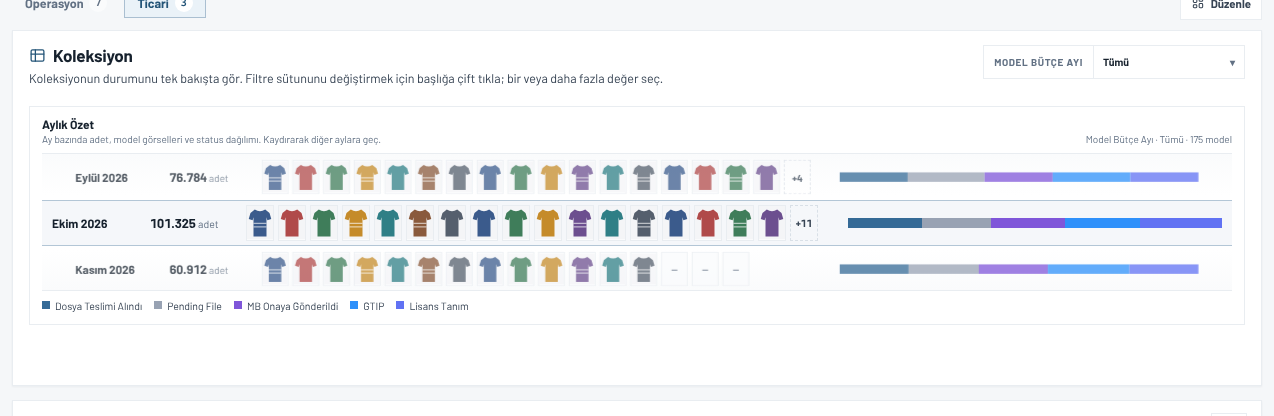
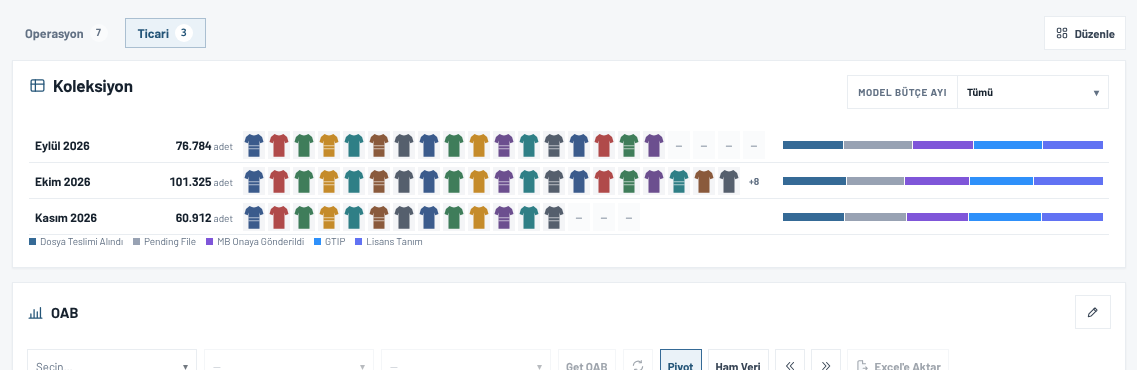
Overview Koleksiyon: düz ve kompakt aylık liste, hover detayı
- Tambur görünümü kaldırıldı; 3 ay aynı hizada, kaydırma/snap sürüyor
- Status dilimine gelince model sayısı ve adet kartı (monthBuckets
  status başına adet de döner); ay adı Koleksiyon'u o ayla açar
- Açıklama, 'Aylık Özet' başlığı ve kapsam metni kaldırıldı
- Daha sıkı satırlar; @container ile dar widget'ta sütunlar küçülür,
  görsel sayısı genişliğe göre azalır; varsayılan widget yüksekliği 3
- Sürüm notu ve görseli güncellendi

Claude-Session: https://claude.ai/code/session_01CpVbLM8pvyK8wbHhbVVCoa

diff --git a/resources/app/public/overview-collection-dashboard.js b/resources/app/public/overview-collection-dashboard.js
@@ -166,10 +166,6 @@
       scopeTrigger.setAttribute('aria-label',(ctx.language==='en'?'Filter values for ':'Filtre değerleri: ')+columnLabel);
       scopeTrigger.onclick=function(event){event.preventDefault();event.stopPropagation();openValuePopover(ctx,scoped);};
     }
-    const intro=document.getElementById('ovCollectionSummaryIntro');
-    if(intro)intro.textContent=ctx.language==='en'?'Collection health at a glance. Double-click the filter title to change column; select one or more values.':'Koleksiyonun durumunu tek bakışta gör. Filtre sütununu değiştirmek için başlığa çift tıkla; bir veya daha fazla değer seç.';
-    const meta=document.getElementById('ovCollectionSummaryScopeMeta');
-    if(meta)meta.textContent=columnLabel+' · '+valueSummary(ctx,scoped)+' · '+total.toLocaleString(locale)+' '+(ctx.language==='en'?'models':'model');
     const order=new Map((ctx.statusCatalog||[]).map(function(entry,index){return [String(entry.name),index];}));
     const rows=(result.rows||[]).slice().sort(function(a,b){const ai=order.has(a.status)?order.get(a.status):9999,bi=order.has(b.status)?order.get(b.status):9999;return ai-bi||String(a.status).localeCompare(String(b.status),'tr-TR',{sensitivity:'base'});});
     /* Renk verilmemiş (varsayılan gri) statüler dağılımda birbirinden ayrılsın:
@@ -201,8 +197,12 @@
       const statuses=bucket.statuses.slice().sort(function(a,b){return rank(a.status)-rank(b.status)||a.status.localeCompare(b.status,'tr-TR',{sensitivity:'base'});});
       const segments=statuses.map(function(entry){
         const share=pct(entry.optionCount,bucket.optionCount);
-        const tip=name+' · '+ctx.statusLabel(entry.status)+' · '+Number(entry.optionCount).toLocaleString(locale)+' '+(en?'options':'opsiyon')+' · '+share+'%';
-        return '<button type="button" class="ovCollectionMonthSeg" data-month-status="'+esc(entry.status)+'" style="--status-color:'+esc(colorByStatus.get(entry.status)||VIS_PALETTE[0])+';flex-grow:'+entry.optionCount+'" title="'+esc(tip)+'" aria-label="'+esc(tip)+'"></button>';
+        const color=colorByStatus.get(entry.status)||VIS_PALETTE[0];
+        const tip='<b>'+esc(name)+'</b><span class="ovCollectionTipStatus" style="--status-color:'+esc(color)+'"><i></i>'+esc(ctx.statusLabel(entry.status))+'<em>'+share+'%</em></span>'+
+          '<span><small>'+esc(en?'Models':'Model')+'</small>'+Number(entry.modelCount).toLocaleString(locale)+'</span>'+
+          '<span><small>'+esc(en?'Quantity':'Adet')+'</small>'+Number(entry.quantity||0).toLocaleString(locale)+'</span>';
+        const label=name+' · '+ctx.statusLabel(entry.status)+' · '+entry.modelCount+' '+(en?'models':'model')+' · '+Number(entry.quantity||0).toLocaleString(locale)+' '+(en?'pcs':'adet');
+        return '<button type="button" class="ovCollectionMonthSeg" data-month-status="'+esc(entry.status)+'" data-month-tip="'+esc(tip)+'" style="--status-color:'+esc(color)+';flex-grow:'+entry.optionCount+'" aria-label="'+esc(label)+'"></button>';
       }).join('');
       const thumbs=bucket.models.slice(0,MAX_THUMBS).map(function(model){
         return model.image
@@ -211,7 +211,7 @@
       }).join('');
       return '<div class="ovCollectionMonthRow" role="option" data-month-index="'+index+'" data-month="'+esc(bucket.month)+'" data-model-count="'+bucket.modelCount+'">'+
         '<button type="button" class="ovCollectionMonthName" data-month-open title="'+esc(en?'Open this month in Collection':'Bu ayı Koleksiyon\'da aç')+'">'+esc(name)+'</button>'+
-        '<span class="ovCollectionMonthQty"><b>'+Number(bucket.quantity||0).toLocaleString(locale)+'</b> '+esc(en?'pcs':'adet')+'</span>'+
+        '<span class="ovCollectionMonthQty"><b>'+Number(bucket.quantity||0).toLocaleString(locale)+'</b><span> '+esc(en?'pcs':'adet')+'</span></span>'+
         '<span class="ovCollectionMonthThumbs">'+thumbs+'<span class="ovCollectionMonthMore" hidden></span></span>'+
         '<span class="ovCollectionMonthBar">'+(segments||'<span class="ovCollectionMonthSeg isEmpty"></span>')+'</span>'+
       '</div>';
@@ -219,10 +219,29 @@
     Array.from(host.querySelectorAll('.ovCollectionMonthRow')).forEach(function(row){
       const month=row.dataset.month;
       row.querySelector('[data-month-open]')?.addEventListener('click',function(){drill({month:month});});
-      Array.from(row.querySelectorAll('[data-month-status]')).forEach(function(button){button.addEventListener('click',function(){drill({month:month,status:button.dataset.monthStatus});});});
+      Array.from(row.querySelectorAll('[data-month-status]')).forEach(function(button){
+        button.addEventListener('click',function(){drill({month:month,status:button.dataset.monthStatus});});
+        button.addEventListener('pointerenter',function(){showSegmentTip(button);});
+        button.addEventListener('pointerleave',hideSegmentTip);
+      });
     });
     mountRevolver(host,buckets);
   }
+  /* Status dilimi hover kartı: model sayısı ve adet (tek, body'ye bağlı). */
+  function segmentTipEl(){
+    let tip=document.getElementById('ovCollectionMonthTip');
+    if(!tip){tip=document.createElement('div');tip.id='ovCollectionMonthTip';tip.className='ovCollectionMonthTip';tip.setAttribute('role','tooltip');tip.hidden=true;document.body.appendChild(tip);}
+    return tip;
+  }
+  function showSegmentTip(button){
+    if(revolver&&revolver.dragging)return;
+    const tip=segmentTipEl();tip.innerHTML=button.dataset.monthTip||'';tip.hidden=false;
+    const rect=button.getBoundingClientRect(),box=tip.getBoundingClientRect(),vw=window.innerWidth||document.documentElement.clientWidth;
+    const left=Math.max(8,Math.min(rect.left+rect.width/2-box.width/2,vw-box.width-8));
+    const top=rect.top-box.height-8>=8?rect.top-box.height-8:rect.bottom+8;
+    tip.style.left=left+'px';tip.style.top=top+'px';
+  }
+  function hideSegmentTip(){const tip=document.getElementById('ovCollectionMonthTip');if(tip)tip.hidden=true;}
   function monthLabel(bucket,locale,en){
     if(!bucket.month)return en?'No month':'Ay yok';
     if(!bucket.year||!bucket.monthNumber)return bucket.month;
@@ -245,17 +264,14 @@
     const min=Math.floor(VISIBLE_ROWS/2),max=state.count-1-min;
     return Math.max(min,Math.min(max,pos));
   }
-  function paintRevolver(state,animate,flat){
+  function paintRevolver(state,animate){
     state.host.classList.toggle('isMoving',!animate);
     const center=state.count>=VISIBLE_ROWS?Math.floor(VISIBLE_ROWS/2):0;
     state.rows.forEach(function(row,index){
-      /* Tambur eğimi yalnız kaydırırken; durunca satırlar düz oturur. */
       const delta=index-state.pos,distance=Math.abs(delta);
       const y=(delta+center)*state.rowHeight;
-      row.style.transform='translateY('+y.toFixed(2)+'px) rotateX('+(animate||flat?0:-delta*24).toFixed(2)+'deg) scale('+(1-Math.min(distance,2)*0.04).toFixed(3)+')';
-      row.style.opacity=distance>=2?'0':String((1-distance*0.25).toFixed(3));
+      row.style.transform='translateY('+y.toFixed(2)+'px)';
       row.style.visibility=distance>=2?'hidden':'';
-      row.classList.toggle('isCenter',distance<0.5);
       row.setAttribute('aria-selected',distance<0.5?'true':'false');
     });
   }
@@ -279,15 +295,15 @@
       if(more){more.hidden=hidden<=0;more.textContent='+'+hidden;}
     });
   }
-  const THUMB_GAP=4;
+  const THUMB_GAP=3;
   function mountRevolver(host,buckets){
     const previous=revolver&&revolver.host===host?revolver.centerMonth:null;
     revolverTeardown();
     const track=host.querySelector('.ovCollectionRevolverTrack');
     const rows=Array.from(host.querySelectorAll('.ovCollectionMonthRow'));
     /* Satır yüksekliği CSS'ten okunur: widget gizliyken de (ölçü 0) doğru kalır. */
-    const rowHeight=Math.max(32,parseFloat(getComputedStyle(host).getPropertyValue('--revolver-row'))||46);
-    const state={host:host,track:track,rows:rows,count:rows.length,rowHeight:rowHeight,thumbStep:28+THUMB_GAP,pos:0,centerMonth:'',cleanup:[]};
+    const rowHeight=Math.max(32,parseFloat(getComputedStyle(host).getPropertyValue('--revolver-row'))||36);
+    const state={host:host,track:track,rows:rows,count:rows.length,rowHeight:rowHeight,thumbStep:22+THUMB_GAP,pos:0,centerMonth:'',cleanup:[]};
     host.style.height=(rowHeight*Math.min(VISIBLE_ROWS,Math.max(1,rows.length)))+'px';
     let start=previous?buckets.findIndex(function(bucket){return bucket.month===previous;}):-1;
     if(start<0){
@@ -299,7 +315,7 @@
     revolver=state;
     state.pos=revolverClamp(state,start);
     state.centerMonth=rows[state.pos]?rows[state.pos].dataset.month:'';
-    paintRevolver(state,false,true);
+    paintRevolver(state,false);
     void host.offsetHeight;
     host.classList.remove('isMoving');
     fitThumbs(state);
@@ -313,6 +329,7 @@
     let idle=0;
     const settle=function(){clearTimeout(idle);idle=setTimeout(function(){snapRevolver(state);},SNAP_IDLE_MS);};
     const onWheel=function(event){
+      hideSegmentTip();
       if(!event.deltaY)return;
       const edge=event.deltaY>0?revolverClamp(state,state.count):revolverClamp(state,0);
       if(Math.abs(state.pos-edge)<0.001)return;
@@ -333,14 +350,14 @@
       if(!drag||event.pointerId!==drag.id)return;
       const dy=event.clientY-drag.y;
       if(!drag.moved&&Math.abs(dy)<5)return;
-      if(!drag.moved){drag.moved=true;try{host.setPointerCapture(drag.id);}catch(_){}}
+      if(!drag.moved){drag.moved=true;state.dragging=true;hideSegmentTip();try{host.setPointerCapture(drag.id);}catch(_){}}
       event.preventDefault();
       state.pos=revolverClamp(state,drag.pos-dy/state.rowHeight);
       paintRevolver(state,false);
     };
     const onUp=function(event){
       if(!drag||event.pointerId!==drag.id)return;
-      const moved=drag.moved;drag=null;
+      const moved=drag.moved;drag=null;state.dragging=false;
       try{host.releasePointerCapture(event.pointerId);}catch(_){}
       if(moved){suppressClick=true;setTimeout(function(){suppressClick=false;},0);snapRevolver(state);}
     };
@@ -357,7 +374,7 @@
     host.addEventListener('click',onClick,true);
     host.addEventListener('keydown',onKey);
     state.cleanup.push(function(){
-      clearTimeout(idle);
+      clearTimeout(idle);hideSegmentTip();
       host.removeEventListener('wheel',onWheel,{passive:false});
       host.removeEventListener('pointerdown',onDown);
       host.removeEventListener('pointermove',onMove);

diff --git a/resources/app/public/app.css b/resources/app/public/app.css
@@ -5779,39 +5779,45 @@ td.plmSampleCell .plmSampleEmpty{color:var(--muted)}
 .tableRangeBar--inline{flex:none;margin-left:auto;padding:0;border:0;background:transparent;}
 .tableRangeBar--inline output{margin-right:2px;}
 
-/* Overview › Koleksiyon aylık revolver: her zaman 3 ay görünür, orta satır vurgulu */
-.ovCollectionRevolver{--revolver-row:46px;position:relative;height:calc(var(--revolver-row) * 3);overflow:hidden;perspective:640px;outline:0;touch-action:none;user-select:none;border-top:1px solid var(--line);border-bottom:1px solid var(--line);background:linear-gradient(180deg,var(--card2),transparent 30%,transparent 70%,var(--card2))}
+/* Overview › Koleksiyon aylık revolver: düz, kompakt; her zaman 3 ay görünür */
+.ovCollectionSummaryBody{gap:6px;margin-top:8px}
+.ovCollectionSummaryBody>.ovCollectionStatusSection{padding:0;border:0;background:transparent}
+.ovCollectionRevolver{--revolver-row:36px;position:relative;height:calc(var(--revolver-row) * 3);overflow:hidden;outline:0;touch-action:none;user-select:none;container-type:inline-size;container-name:ovmonths}
 .ovCollectionRevolver.isScrollable{cursor:grab}
 .ovCollectionRevolver.isScrollable:active{cursor:grabbing}
 .ovCollectionRevolver:focus-visible{box-shadow:var(--focus-ring)}
 .ovCollectionRevolver>.ovCollectionSummaryEmpty{display:grid;place-items:center;height:100%;font-size:11px}
-.ovCollectionRevolverTrack{position:absolute;inset:0;transform-style:preserve-3d}
-.ovCollectionRevolver.isScrollable::after{content:'';position:absolute;left:0;right:0;top:var(--revolver-row);height:var(--revolver-row);border-top:1px solid color-mix(in srgb,var(--acc) 30%,var(--line));border-bottom:1px solid color-mix(in srgb,var(--acc) 30%,var(--line));pointer-events:none}
-.ovCollectionMonthRow{position:absolute;left:0;right:0;top:0;height:var(--revolver-row);box-sizing:border-box;display:grid;grid-template-columns:minmax(86px,auto) minmax(84px,auto) minmax(0,1fr) minmax(120px,32%);gap:12px;align-items:center;padding:0 10px;backface-visibility:hidden;transform-origin:50% 50%;transition:transform .42s cubic-bezier(.22,1.2,.36,1),opacity .42s ease}
+.ovCollectionRevolverTrack{position:absolute;inset:0}
+.ovCollectionMonthRow{position:absolute;left:0;right:0;top:0;height:var(--revolver-row);box-sizing:border-box;display:grid;grid-template-columns:96px 92px minmax(0,1fr) minmax(90px,30%);gap:10px;align-items:center;padding:0 6px;border-bottom:1px solid var(--line);transition:transform .32s cubic-bezier(.2,.8,.2,1)}
+.ovCollectionMonthRow:hover{background:var(--table-hover)}
 .ovCollectionRevolver.isMoving .ovCollectionMonthRow{transition:none}
-.ovCollectionMonthRow.isCenter{background:color-mix(in srgb,var(--acc) 5%,transparent)}
-.ovCollectionMonthName{min-width:0;overflow:hidden;text-overflow:ellipsis;white-space:nowrap;border:0;background:transparent;padding:4px 0;color:var(--ink);font:inherit;font-size:12px;font-weight:750;text-align:left;cursor:pointer}
-.ovCollectionMonthName:hover{color:var(--acc-ink);text-decoration:underline}
-.ovCollectionMonthQty{white-space:nowrap;font-size:10.5px;color:var(--muted)}
-.ovCollectionMonthQty b{font-size:13px;color:var(--ink);font-variant-numeric:tabular-nums}
-.ovCollectionMonthThumbs{display:flex;align-items:center;gap:4px;min-width:0;overflow:hidden}
-.ovCollectionMonthThumb{flex:0 0 28px;width:28px;height:36px;display:grid;place-items:center;overflow:hidden;border:1px solid var(--line);background:var(--card2);color:var(--muted);font-size:10px;font-weight:700}
+.ovCollectionMonthName{min-width:0;overflow:hidden;text-overflow:ellipsis;white-space:nowrap;border:0;background:transparent;padding:2px 0;color:var(--ink);font:inherit;font-size:12px;font-weight:700;text-align:left;cursor:pointer}
+.ovCollectionMonthName:hover,.ovCollectionMonthName:focus-visible{color:var(--acc-ink);text-decoration:underline;outline:0}
+.ovCollectionMonthQty{white-space:nowrap;font-size:10px;color:var(--muted);text-align:right}
+.ovCollectionMonthQty b{font-size:12px;font-weight:700;color:var(--ink);font-variant-numeric:tabular-nums}
+.ovCollectionMonthThumbs{display:flex;align-items:center;gap:3px;min-width:0;overflow:hidden}
+.ovCollectionMonthThumb{flex:0 0 22px;width:22px;height:28px;display:grid;place-items:center;overflow:hidden;background:var(--card2);color:var(--muted);font-size:10px}
 .ovCollectionMonthThumb[hidden]{display:none}
 .ovCollectionMonthThumb img{width:100%;height:100%;object-fit:contain;pointer-events:none}
-.ovCollectionMonthMore{flex:0 0 auto;min-width:28px;height:36px;padding:0 4px;display:grid;place-items:center;box-sizing:border-box;border:1px dashed var(--line2);color:var(--ink2);font-size:10.5px;font-weight:750;font-variant-numeric:tabular-nums}
+.ovCollectionMonthMore{flex:0 0 auto;min-width:22px;height:28px;padding:0 4px;display:grid;place-items:center;box-sizing:border-box;color:var(--muted);font-size:10px;font-weight:700;font-variant-numeric:tabular-nums}
 .ovCollectionMonthMore[hidden]{display:none}
-.ovCollectionMonthBar{display:flex;height:10px;overflow:hidden;background:var(--card2)}
-.ovCollectionMonthSeg{--status-color:#667085;display:block;min-width:3px;height:100%;border:0;padding:0;background:var(--status-color);cursor:pointer;transition:filter .12s}
-.ovCollectionMonthSeg:hover{filter:brightness(1.12) saturate(1.1)}
+.ovCollectionMonthBar{display:flex;gap:1px;height:8px;min-width:0;overflow:hidden;background:var(--card2)}
+.ovCollectionMonthSeg{--status-color:#667085;display:block;min-width:2px;height:100%;border:0;padding:0;background:var(--status-color);cursor:pointer;transition:filter .12s}
+.ovCollectionSummary .ovCollectionMonthSeg:hover{background:var(--status-color);filter:brightness(1.15) saturate(1.15);box-shadow:0 0 0 1px var(--ink)}
 .ovCollectionMonthSeg.isEmpty{flex:1;background:transparent;cursor:default}
-.ovCollectionMonthLegend{display:flex;flex-wrap:wrap;gap:4px 12px;margin-top:10px}
-.ovCollectionMonthLegendItem{--status-color:#667085;display:inline-flex;align-items:center;gap:5px;border:0;background:transparent;padding:2px 0;color:var(--ink2);font:inherit;font-size:10.5px;cursor:pointer}
-.ovCollectionMonthLegendItem i{width:8px;height:8px;background:var(--status-color)}
+.ovCollectionMonthLegend{display:flex;flex-wrap:wrap;gap:2px 10px}
+.ovCollectionMonthLegendItem{--status-color:#667085;display:inline-flex;align-items:center;gap:4px;border:0;background:transparent;padding:0;color:var(--muted);font:inherit;font-size:10px;cursor:pointer}
+.ovCollectionMonthLegendItem i{width:7px;height:7px;background:var(--status-color)}
 .ovCollectionMonthLegendItem:hover{color:var(--ink)}
-@container ovw (max-width:560px){.ovCollectionMonthRow{grid-template-columns:minmax(76px,auto) auto minmax(0,1fr) minmax(70px,26%);gap:8px}}
-/* Özet alanı aylık revolver'dır (genel KPI özeti kaldırıldı) */
-.ovCollectionSummaryBody{gap:8px;margin-top:8px}
-.ovCollectionSummaryBody>.ovCollectionStatusSection{padding:10px 12px}
-.ovCollectionSummaryBody>.ovCollectionStatusSection>.ovCollectionStatusSectionHead{margin-bottom:8px}
-.ovCollectionMonthLegend{margin-top:6px}
+.ovCollectionMonthTip{position:fixed;z-index:600;display:grid;grid-template-columns:auto auto;gap:3px 12px;min-width:150px;padding:8px 10px;border:1px solid var(--line2);background:var(--card);box-shadow:var(--shadow-2);color:var(--ink);font-size:11px;pointer-events:none}
+.ovCollectionMonthTip[hidden]{display:none}
+.ovCollectionMonthTip>b{grid-column:1/-1;font-size:11.5px}
+.ovCollectionTipStatus{grid-column:1/-1;display:flex;align-items:center;gap:5px;color:var(--ink2)}
+.ovCollectionTipStatus i{width:8px;height:8px;background:var(--status-color)}
+.ovCollectionTipStatus em{margin-left:auto;font-style:normal;color:var(--muted)}
+.ovCollectionMonthTip>span:not(.ovCollectionTipStatus){display:flex;flex-direction:column;font-weight:700;font-variant-numeric:tabular-nums}
+.ovCollectionMonthTip small{font-size:10px;font-weight:600;color:var(--muted)}
+/* Daralınca: önce görseller azalır (fitThumbs), sonra çubuk ve sütunlar küçülür */
+@container ovmonths (max-width:620px){.ovCollectionMonthRow{grid-template-columns:78px 72px minmax(0,1fr) minmax(60px,26%);gap:8px}.ovCollectionMonthQty span{display:none}}
+@container ovmonths (max-width:420px){.ovCollectionMonthRow{grid-template-columns:70px minmax(0,1fr) minmax(48px,30%)}.ovCollectionMonthQty{display:none}}
 @media(prefers-reduced-motion:reduce){.ovCollectionMonthRow{transition:none}}

diff --git a/resources/app/public/overview-layout.js b/resources/app/public/overview-layout.js
@@ -24,7 +24,7 @@
     attention:{icon:'alert-triangle',group:'operations',tr:'Aksiyon Gerekenler',en:'Orders Requiring Attention',descTr:'Bugün müdahale bekleyen sipariş satırları.',descEn:'Order rows that need action today.',w:6,h:7,minW:4,minH:4,maxW:12,maxH:16},
     dataCoverage:{icon:'checklist',group:'operations',tr:'Veri Kapsamı',en:'Data Coverage',descTr:'Eksik tarih/kural sayıları ve takip dışı alanlar.',descEn:'Missing dates/rules and untracked fields.',w:4,h:5,minW:3,minH:3,maxW:12,maxH:12},
     globalFlowMap:{icon:'globe',group:'operations',tr:'Global Flow Map',en:'Global Flow Map',descTr:'Üretim ve sevkiyat akışı haritası.',descEn:'Production and shipment flow map.',w:12,h:9,minW:5,minH:5,maxW:12,maxH:16},
-    collectionSummary:{icon:'table',group:'commercial',tr:'Koleksiyon',en:'Collection',descTr:'Aylık adet, model görselleri ve status dağılımı.',descEn:'Monthly quantity, model images and status mix.',w:12,h:5,minW:4,minH:3,maxW:12,maxH:12},
+    collectionSummary:{icon:'table',group:'commercial',tr:'Koleksiyon',en:'Collection',descTr:'Aylık adet, model görselleri ve status dağılımı.',descEn:'Monthly quantity, model images and status mix.',w:12,h:3,minW:4,minH:3,maxW:12,maxH:12},
     oab:{icon:'chart-histogram',group:'commercial',tr:'OAB',en:'OAB',descTr:'Order-Assortment-Budget pivotu.',descEn:'Order-Assortment-Budget pivot.',w:12,h:8,minW:6,minH:4,maxW:12,maxH:20},
     intake:{icon:'database-import',group:'commercial',tr:'INTAKE',en:'INTAKE',descTr:'INTAKE bütçe pivotu.',descEn:'INTAKE budget pivot.',w:12,h:8,minW:6,minH:4,maxW:12,maxH:20},
   });
@@ -40,9 +40,9 @@
       {key:'dataCoverage',x:8,y:16,w:4,h:9},
     ]},
     {name:{tr:'Ticari',en:'Commercial'},items:[
-      {key:'collectionSummary',x:0,y:0,w:12,h:5},
-      {key:'oab',x:0,y:5,w:12,h:8},
-      {key:'intake',x:0,y:13,w:12,h:8},
+      {key:'collectionSummary',x:0,y:0,w:12,h:3},
+      {key:'oab',x:0,y:3,w:12,h:8},
+      {key:'intake',x:0,y:11,w:12,h:8},
     ]},
   ]);
   /* v1 → v2 taşıması için eski anahtarlar. */

diff --git a/resources/app/tests/overview-collection-month-revolver-v20261007.test.js b/resources/app/tests/overview-collection-month-revolver-v20261007.test.js
@@ -29,7 +29,7 @@ test('monthBuckets groups Collection rows chronologically with quantity, models 
   assert.equal(march.optionCount,3);
   assert.equal(march.modelCount,2);
   assert.deepEqual(march.models.map(m=>[m.label,m.image]),[['M-1','a.png'],['M-2','']]);
-  assert.deepEqual(march.statuses.map(s=>[s.status,s.optionCount]),[['Fiyatlamada',2],['Siparişe Hazır',1]]);
+  assert.deepEqual(march.statuses.map(s=>[s.status,s.optionCount,s.modelCount,s.quantity]),[['Fiyatlamada',2,2,1700],['Siparişe Hazır',1,1,300]]);
   assert.equal(buckets[3].year,null);
 });
 
@@ -55,7 +55,14 @@ test('Overview Collection summary renders a 3-row revolver of month rows',()=>{
   assert.match(DASH,/Math\.round\(/);
   assert.match(DASH,/addEventListener\('wheel'/);
   assert.match(DASH,/addEventListener\('pointerup'/);
-  assert.match(DASH,/rotateX\(.+\(animate\|\|flat\?0:-delta\*24\)/);
+  /* Tambur görünümü kaldırıldı: satırlar düz ve aynı hizada. */
+  assert.doesNotMatch(DASH,/rotateX\(/);
+  assert.match(DASH,/function showSegmentTip/);
+  assert.match(DASH,/en\?'Models':'Model'/);
+  assert.match(DASH,/en\?'Quantity':'Adet'/);
+  assert.match(DASH,/\[data-month-open\]'\)\?\.addEventListener\('click',function\(\)\{drill\(\{month:month\}\)/);
+  assert.doesNotMatch(INDEX,/Aylık Özet|id="ovCollectionSummaryIntro"/);
+  assert.match(CSS,/@container ovmonths/);
   assert.match(DASH,/ovCollectionMonthMore/);
   assert.match(DASH,/ctx\.drill\(Object\.assign\(\{scopeColumn:scoped\.column\.k,scopeValues:scoped\.selected\},extra\)\)/);
   assert.match(DASH,/drill\(\{month:month,status:button\.dataset\.monthStatus\}\)/);

diff --git a/resources/app/public/index.html b/resources/app/public/index.html
@@ -705,7 +705,6 @@
       <div class="ovCollectionSummaryHeader">
         <div class="ovCollectionSummaryHeading">
           <p class="cardTitle ovCollectionSummaryTitle"><svg class="ic" aria-hidden="true"><use href="#i-table"/></svg><span data-i18n-tr="Koleksiyon" data-i18n-en="Collection">Koleksiyon</span></p>
-          <p id="ovCollectionSummaryIntro" class="ovCollectionSummaryIntro"></p>
         </div>
         <div class="ovCollectionSummaryHeaderActions">
           <div id="ovCollectionSummaryScope" class="ovCollectionSummaryScope">
@@ -717,7 +716,6 @@
       </div>
       <div class="ovCollectionSummaryBody">
         <div class="ovCollectionStatusSection">
-          <div class="ovCollectionStatusSectionHead"><div><b data-i18n-tr="Aylık Özet" data-i18n-en="Monthly Summary">Aylık Özet</b><span data-i18n-tr="Ay bazında adet, model görselleri ve status dağılımı. Kaydırarak diğer aylara geç." data-i18n-en="Quantity, model images and status mix by month. Scroll to move between months.">Ay bazında adet, model görselleri ve status dağılımı. Kaydırarak diğer aylara geç.</span></div><span id="ovCollectionSummaryScopeMeta"></span></div>
           <div id="ovCollectionSummaryMonths" class="ovCollectionRevolver" tabindex="0" role="listbox" aria-label="Collection months" data-i18n-aria-label-tr="Koleksiyon ayları" data-i18n-aria-label-en="Collection months"></div>
           <div id="ovCollectionSummaryLegend" class="ovCollectionMonthLegend"></div>
         </div>

diff --git a/resources/app/public/overview-collection-summary.js b/resources/app/public/overview-collection-summary.js
@@ -197,8 +197,8 @@
       const entry=group.models.get(model)||{key:model,label:fieldValue(row,'model',fields)||model,image:''};
       if(!entry.image)entry.image=text(imageFor(row));
       group.models.set(model,entry);
-      const statusEntry=group.statuses.get(status)||{status,optionCount:0,models:new Set()};
-      statusEntry.optionCount++;statusEntry.models.add(model);group.statuses.set(status,statusEntry);
+      const statusEntry=group.statuses.get(status)||{status,optionCount:0,quantity:0,models:new Set()};
+      statusEntry.optionCount++;if(Number.isFinite(quantity)&&quantity>0)statusEntry.quantity+=quantity;statusEntry.models.add(model);group.statuses.set(status,statusEntry);
       groups.set(month,group);
     });
     const order=group=>{const parts=monthParts(group.month);return parts?parts.year*12+parts.month:Number.POSITIVE_INFINITY;};
@@ -213,7 +213,7 @@
         optionCount:group.optionCount,
         modelCount:models.length,
         models:models.filter(model=>model.image).concat(models.filter(model=>!model.image)),
-        statuses:[...group.statuses.values()].map(entry=>({status:entry.status,optionCount:entry.optionCount,modelCount:entry.models.size}))
+        statuses:[...group.statuses.values()].map(entry=>({status:entry.status,optionCount:entry.optionCount,modelCount:entry.models.size,quantity:entry.quantity}))
           .sort((a,b)=>a.status.localeCompare(b.status,'tr-TR',{numeric:true,sensitivity:'base'})),
       };
     });
